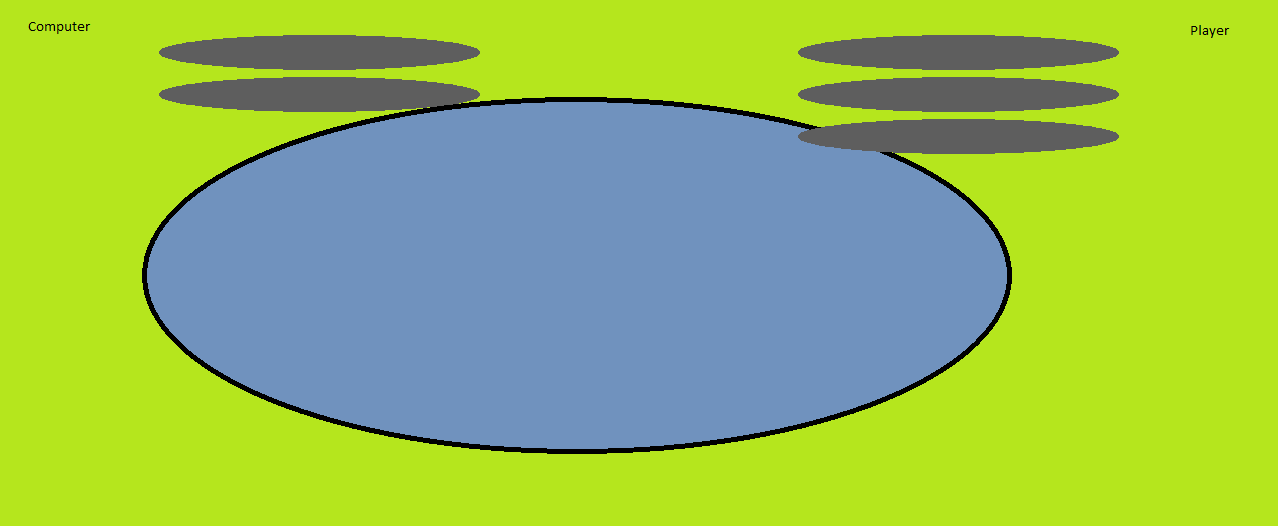
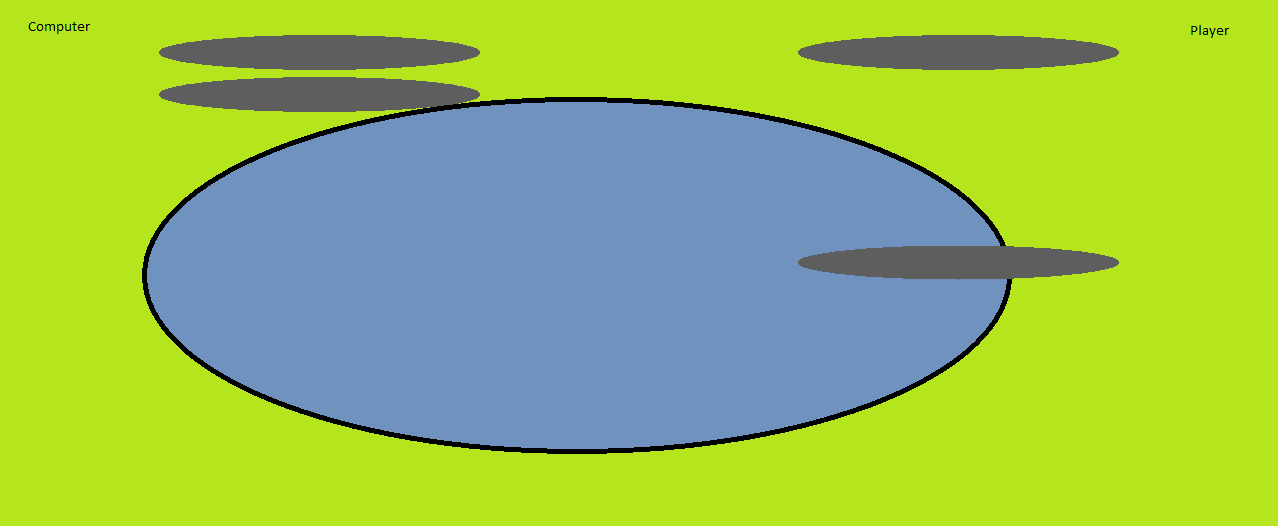
python arrays need to be coppied not pointed to and then modified!!!!!

Changed region(s): [[0.6103, 0.1217, 0.885, 0.3042], [0.6103, 0.4563, 0.885, 0.5475]]

diff --git a/v1.5/chopsticksIn.py b/v1.5/chopsticksIn.py
@@ -43,12 +43,10 @@ def getIn():
 
     print(res)
 
-def validMove(statel, statef):
-    return statef != [-1,-1,-1,-1]
 
 def parseGetIn(state, mod=5):
     res = [[-1, -1, -1, -1], "na"]
-    while not validMove(state, res[0]):
+    while res[0] == [-1, -1, -1, -1]:
         inputPrompt()
         res = getIn()
         print("CHECKING")
@@ -57,7 +55,7 @@ def parseGetIn(state, mod=5):
                 for j in range(2, 4):
                     if res[0][0] == state[i]:
                         if res[0][1] == state[j]:
-                            res[0] = state
+                            res[0] = state[:]
                             res[0][j] = (state[i] + state[j]) % mod
         elif res[1] == "switch":
             res[0] = [res[0][0], res[0][1], state[2], state[3]]

diff --git a/v1.5/functions.py b/v1.5/functions.py
@@ -28,6 +28,8 @@ def inputState(state, mod=5, mic=True):
     nextMove = [-1, -1, -1, -1]
     while not validMove(state, nextMove):
         if mic:
+            print("-"*1000)
+            print(nextMove, state)
             nextMove = parseGetIn(state, mod)
         else:
             nextMove = parseState(input("input move values, space seperated\t"))

diff --git a/v1.5/chopsticks.py b/v1.5/chopsticks.py
@@ -28,9 +28,9 @@ else:
 mic = True
 micAns = input("Would you like to use the microphone for your speech input?(y/n)")
 if len(micAns) > 0:
-    if micAns[0].lower() == 'n'
+    if micAns[0].lower() == 'n':
         mic = False
-        
+
 # game loop
 while gameOver(state) == -1:
     if (turn + shift) % 2 == 0:  # computer move
